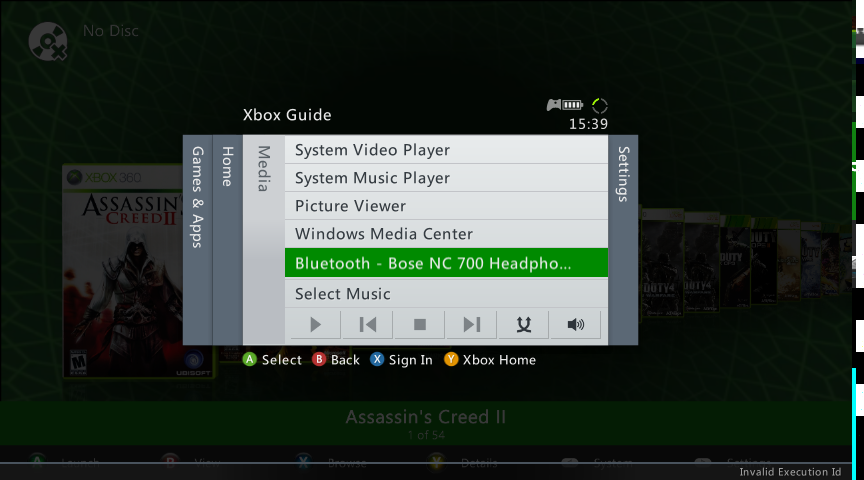
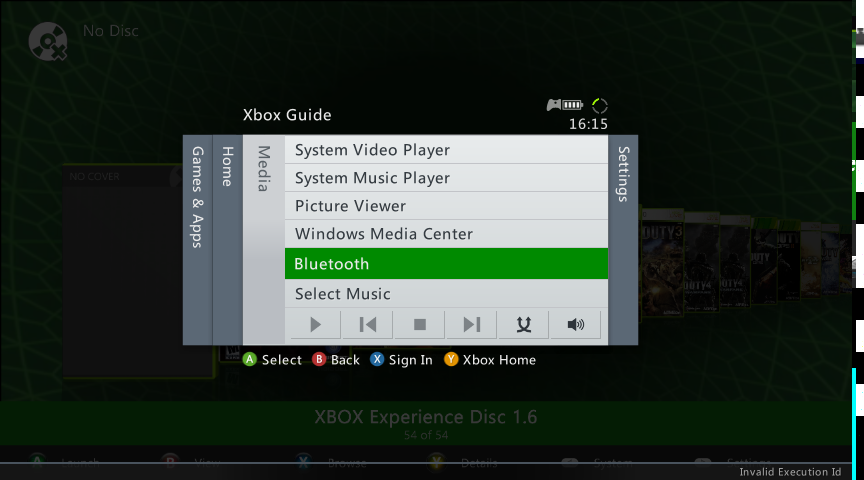
docs: final Guide Bluetooth row screenshots, focused and unfocused
Claude-Session: https://claude.ai/code/session_011UUPjaBhCSc92E35Ny6kzS

diff --git a/docs/bluetooth-stage3.md b/docs/bluetooth-stage3.md
@@ -3,7 +3,9 @@
 Once a paired device is connected (authenticated and encrypted), the plugin
 opens the A2DP stream and plays console audio over it.
 
-![Guide → Media on COD: the single Bluetooth row while the Bose NC 700 is connected](img/bt-guide-media-row.png)
+![Guide → Media on COD: the Bluetooth row focused](img/bt-guide-media-row.png)
+
+![Guide → Media on COD: the Bluetooth row unfocused, matching the native rows](img/bt-guide-media-row-unfocused.png)
 
 ![The Bluetooth page while streaming: paired Bose NC 700, volume slider, "Playing console audio over Bluetooth."](img/bt-page-volume.png)
 
